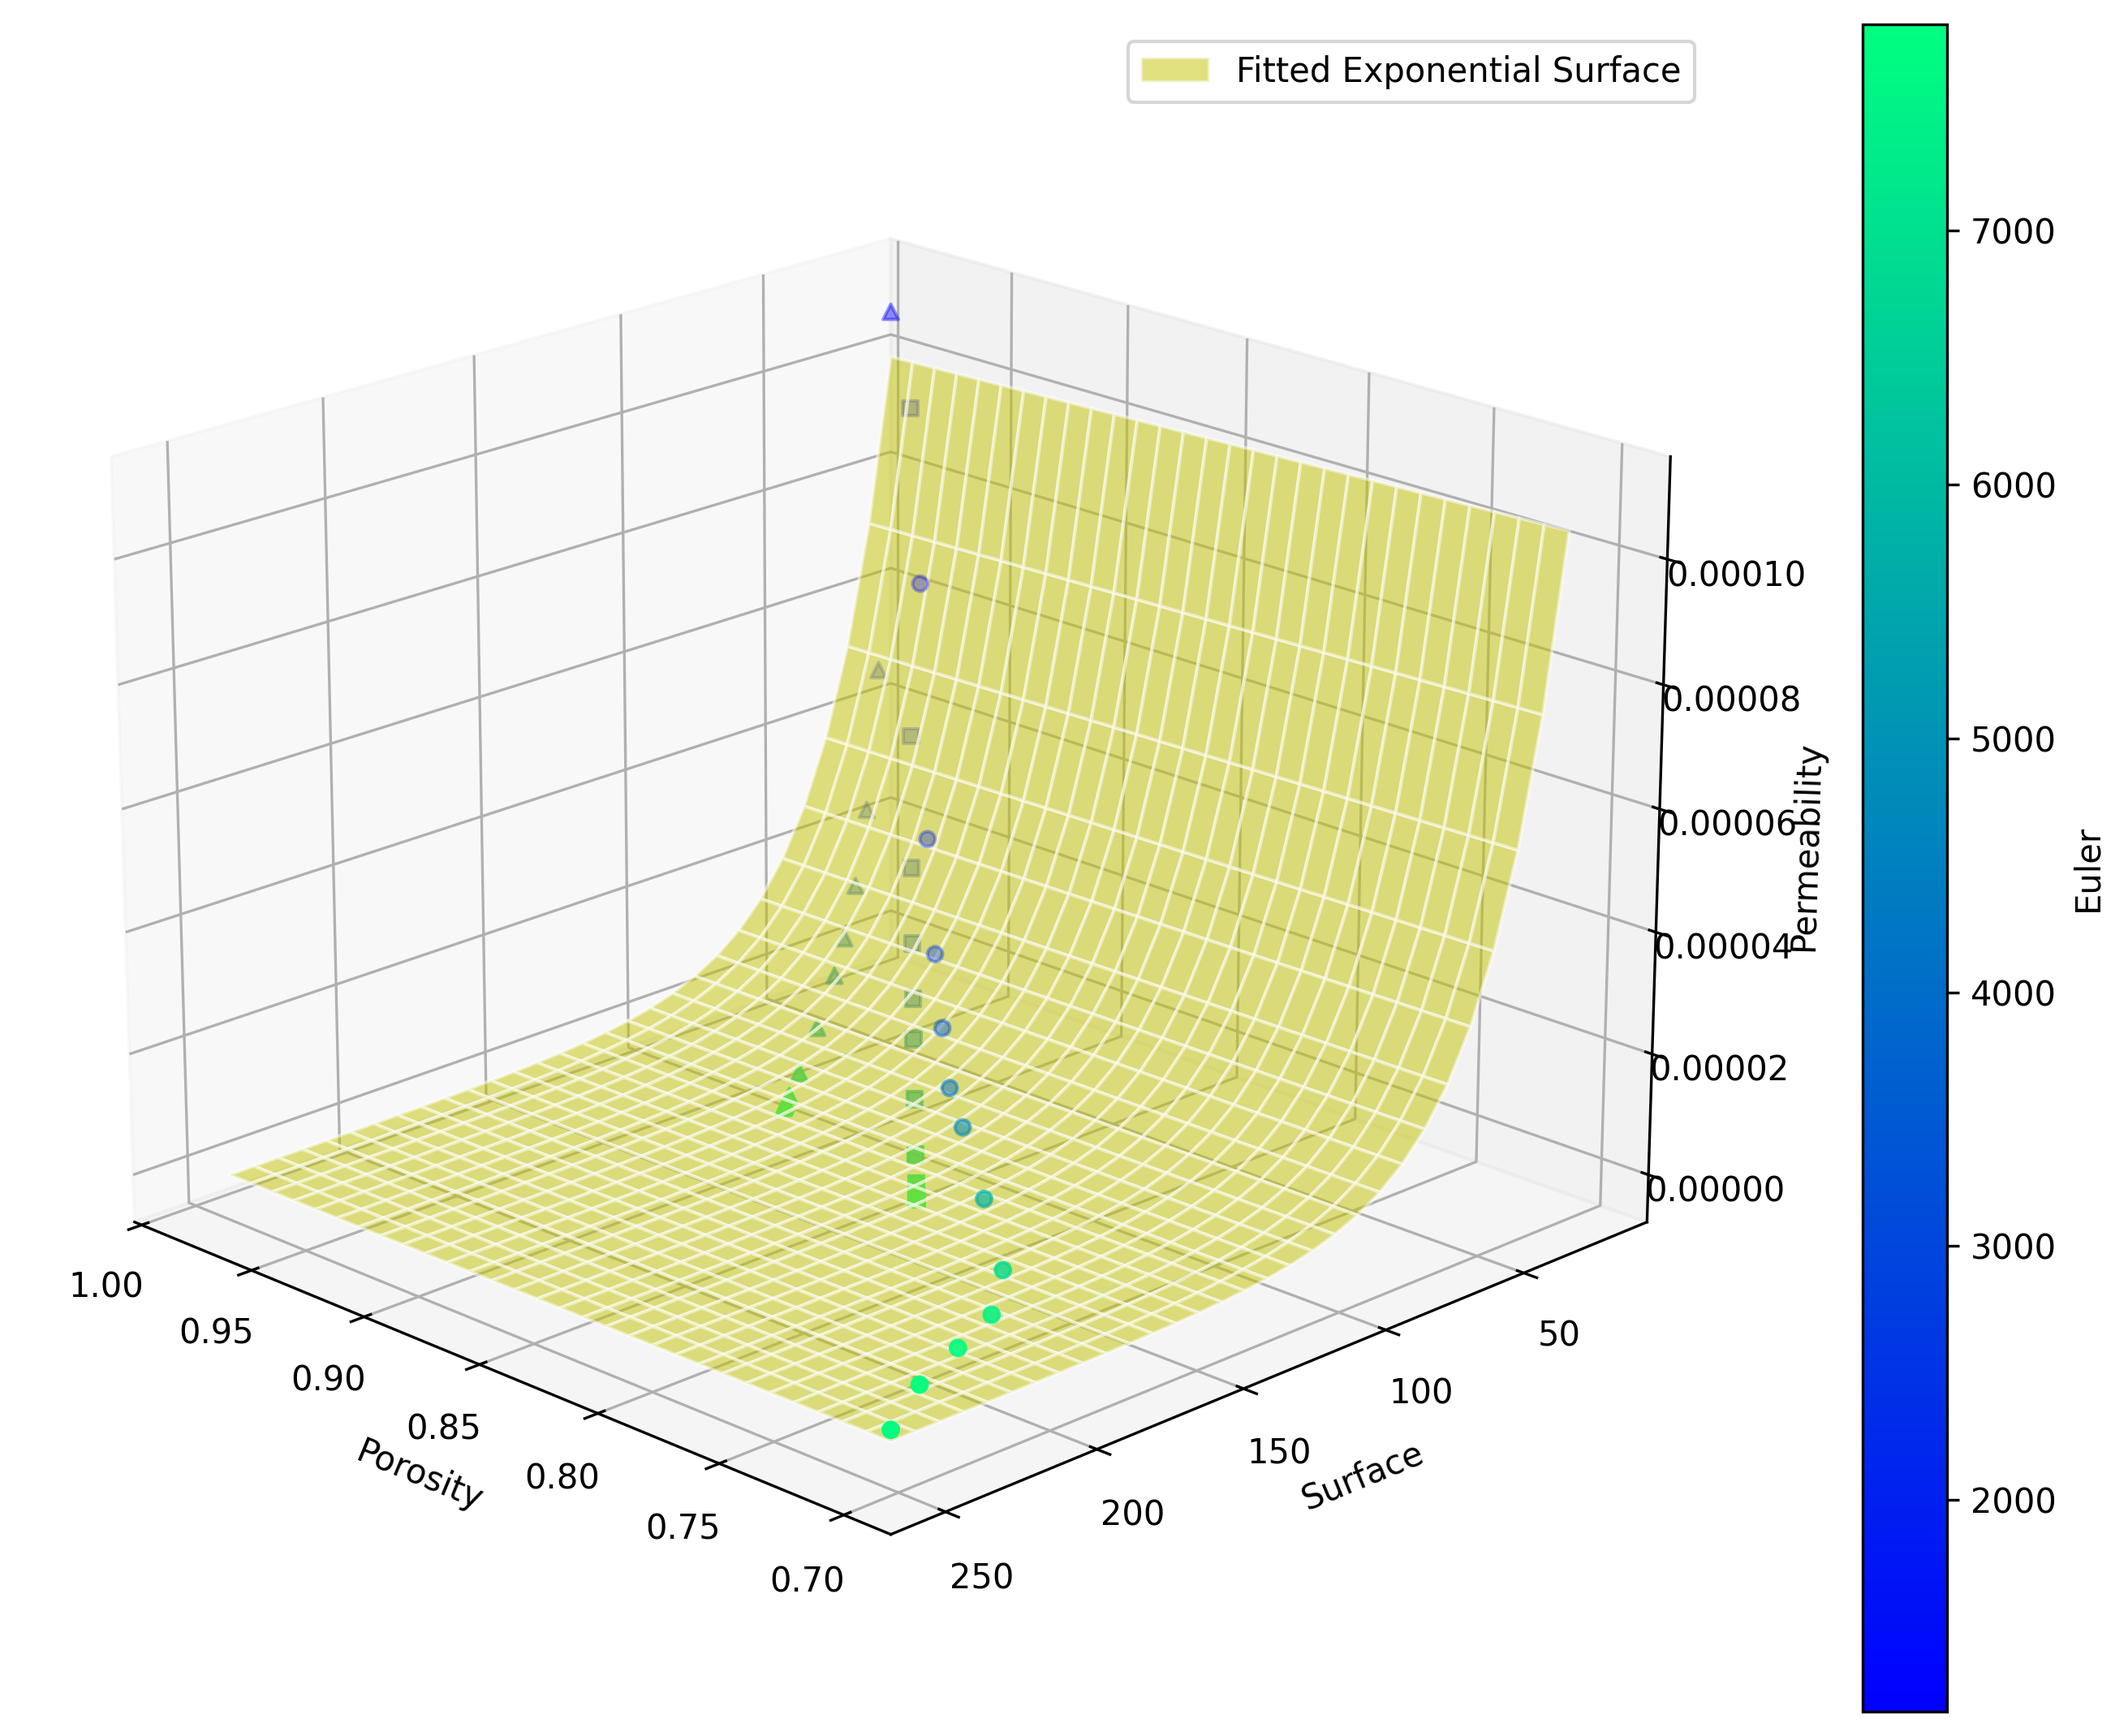
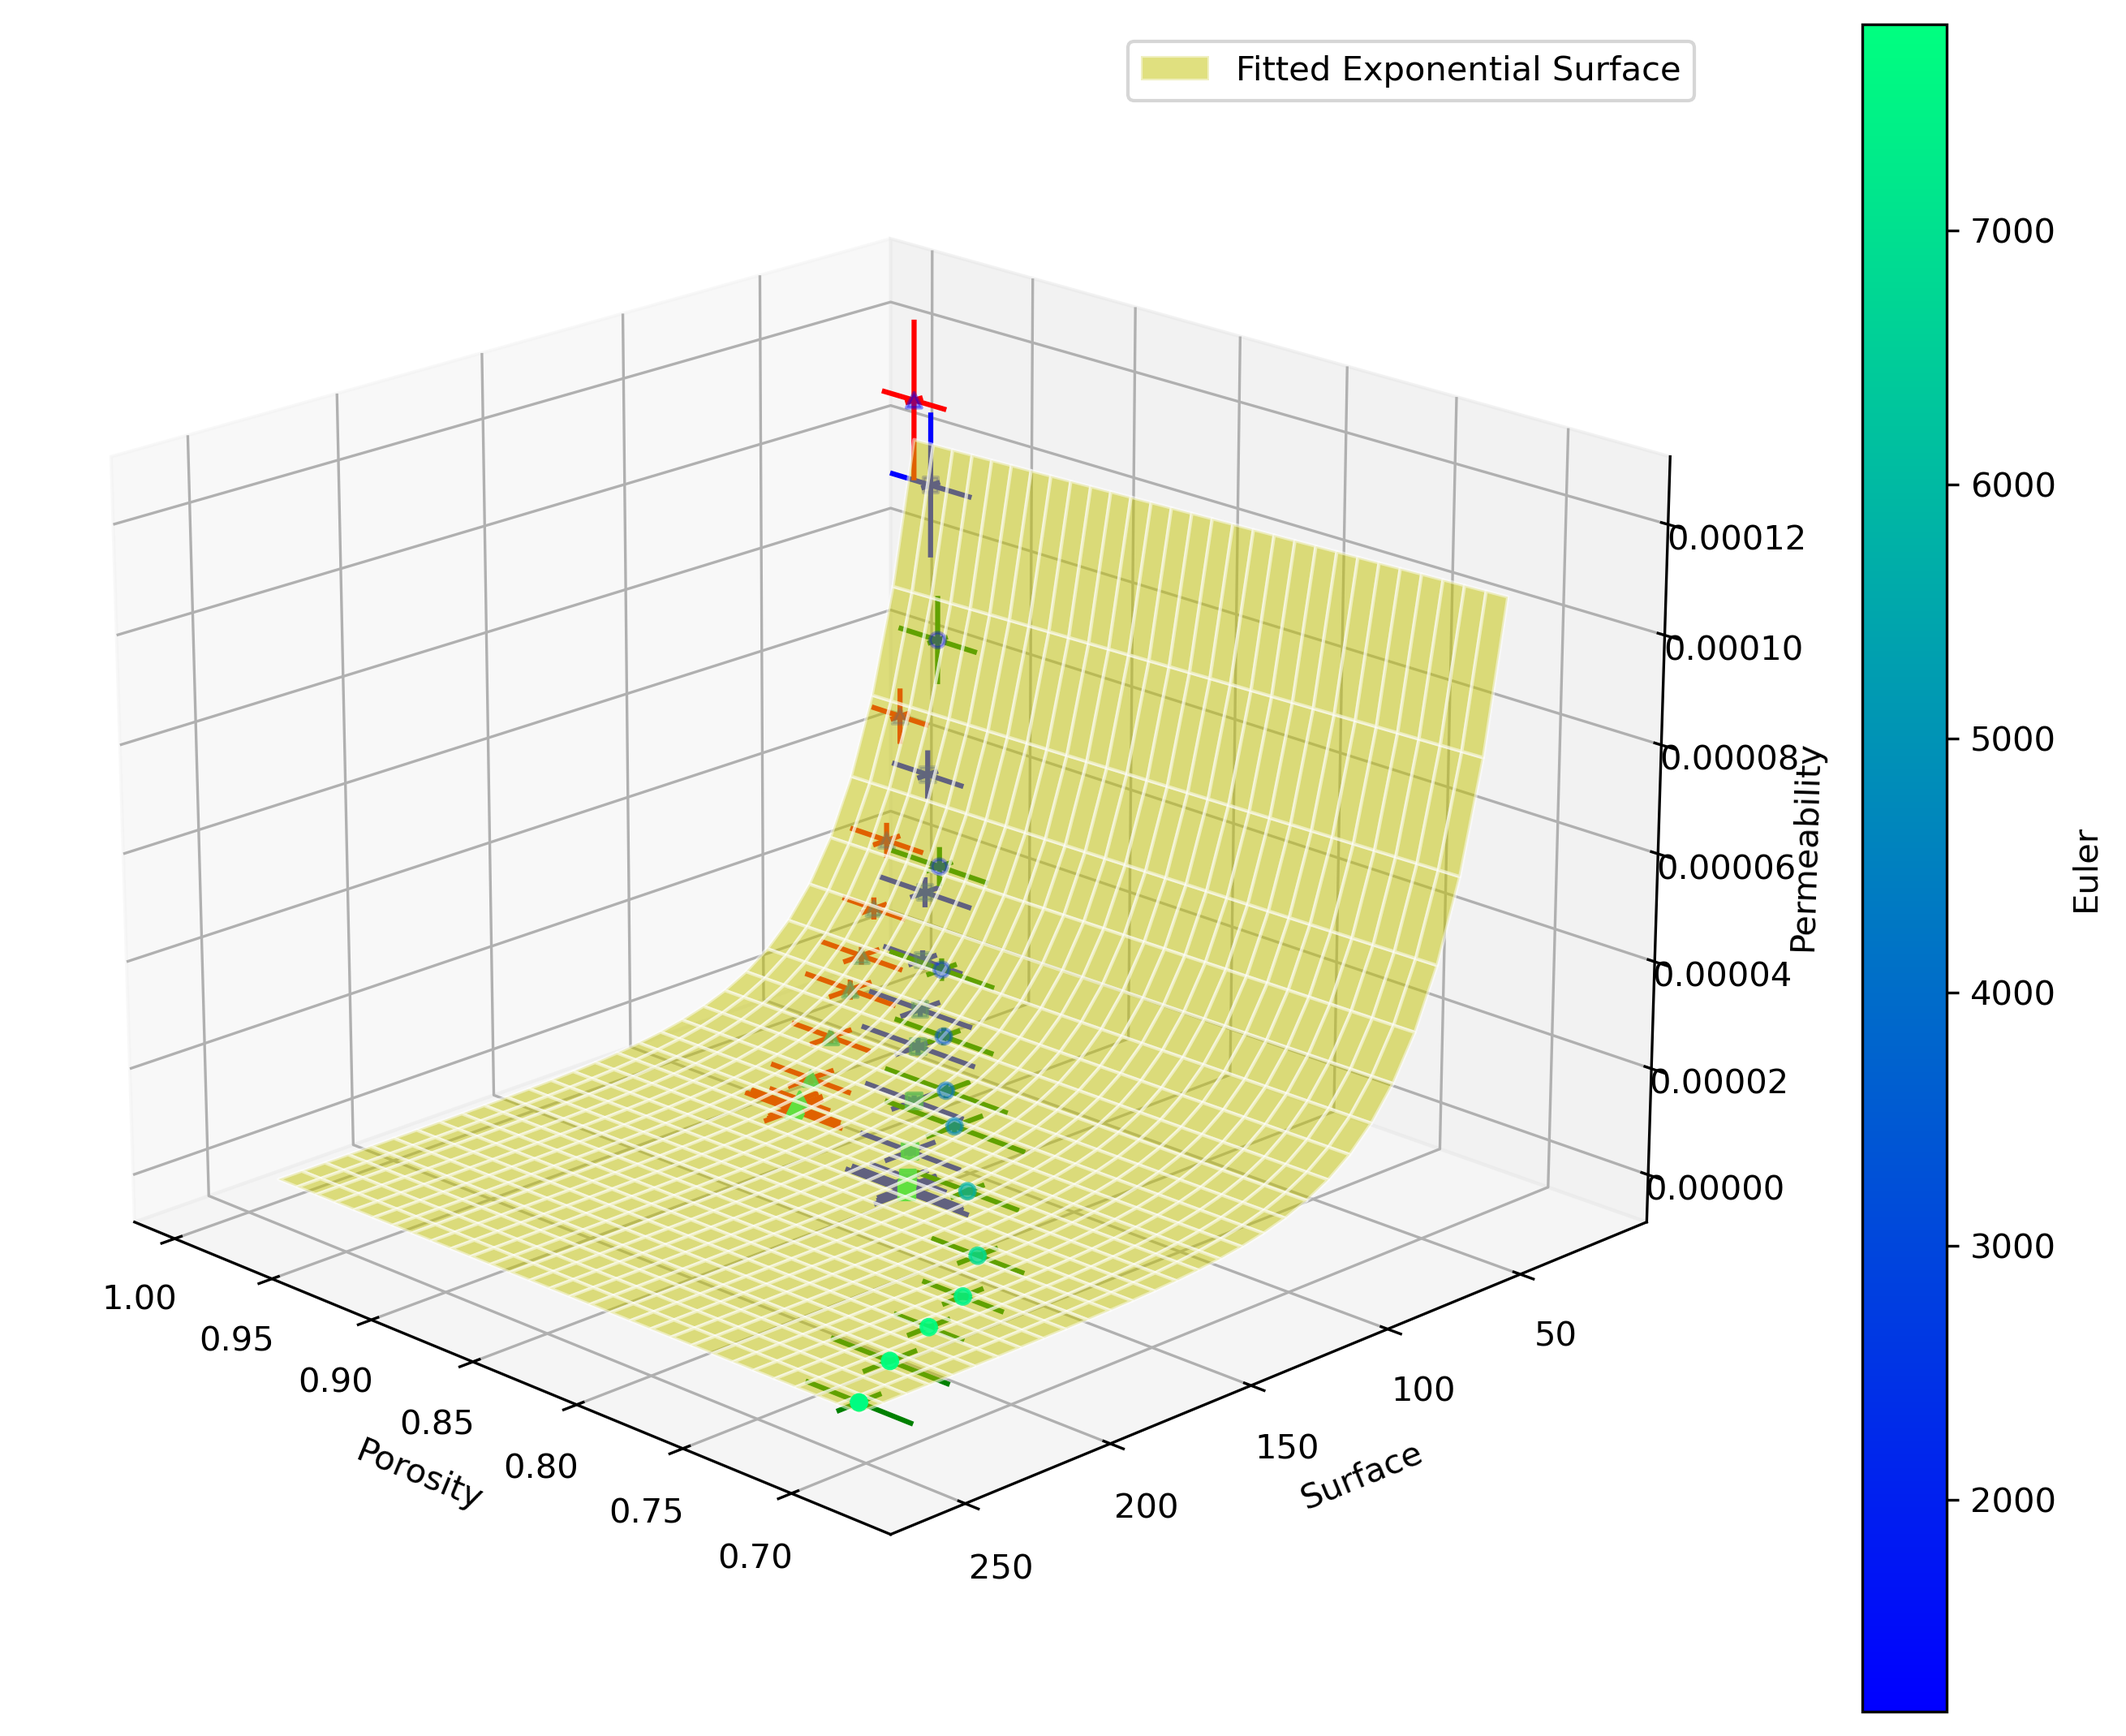
Modified 3d surface and added variance

diff --git a/3d_plots.py b/3d_plots.py
@@ -23,6 +23,7 @@ from sklearn.linear_model import LinearRegression
 from sklearn.metrics import mean_squared_error
 import scipy.optimize as opt
 plt.rcParams["figure.figsize"] = (16, 9)
+VARIANCE=True
 
 # Folder options are: 
 # Threshold_homogenous_diamater_wide_RCP                8000
@@ -31,9 +32,11 @@ plt.rcParams["figure.figsize"] = (16, 9)
 
 ################ READING ALL THE FILES IN THE FOLDER ################
 script_dir = os.path.dirname(__file__)
-sub_path = 'Porespy_homogenous_diamater'
+sub_path = 'Threshold_homogenous_diamater_small_RCP'
 path = os.path.join(script_dir, sub_path)
 print(path)
+variance_path=os.path.join(script_dir, 'Summaries', sub_path)
+print(variance_path)
 # all_files = glob.glob(os.path.join(path, "*0.300*.csv"))
 all_files = glob.glob(os.path.join(path, "*rectangle*.csv"))
 df_from_each_file = (pd.read_csv(f).mean(axis=0).to_frame().T for f in all_files)
@@ -41,6 +44,19 @@ concatenated_df_rectangle = pd.concat(df_from_each_file, ignore_index=True)
 #print(concatenated_df_rectangle['Permeability'])
 # concatenated_df_rectangle['Permeability'] = concatenated_df_rectangle['Permeability'] * 1e5
 # concatenated_df_rectangle['Energy'] = concatenated_df_rectangle['Energy'] * 1e5
+
+#EXTRACT VARIANCE FOR RECTANGLE
+
+variance_files = glob.glob(os.path.join(variance_path, "*rectangle*.csv"))
+df_from_file = (pd.read_csv(f) for f in variance_files)
+variance_df_rectangle = pd.concat(df_from_file, ignore_index=True)
+variance_porosity_rectangle = variance_df_rectangle['Porosity_variance']
+variance_permeability_rectangle = variance_df_rectangle['Permeability_variance']
+variance_surface_rectangle = variance_df_rectangle['Surface_variance']
+mean_porosity_rectangle = variance_df_rectangle['Porosity_mean']
+mean_permeability_rectangle = variance_df_rectangle['Permeability_mean']
+mean_surface_rectangle = variance_df_rectangle['Surface_mean']
+
 
 
 all_files = glob.glob(os.path.join(path, "*triangle*.csv"))
@@ -50,6 +66,18 @@ concatenated_df_triangle = pd.concat(df_from_each_file, ignore_index=True)
 # concatenated_df_triangle['Permeability'] = concatenated_df_triangle['Permeability'] * 1e5
 # concatenated_df_triangle['Energy'] = concatenated_df_triangle['Energy'] * 1e5
 
+#EXTRACT VARIANCE FOR TRIANGLE
+
+variance_files = glob.glob(os.path.join(variance_path, "*triangle*.csv"))
+df_from_file = (pd.read_csv(f) for f in variance_files)
+variance_df_triangle = pd.concat(df_from_file, ignore_index=True)
+variance_porosity_triangle = variance_df_triangle['Porosity_variance']
+variance_permeability_triangle = variance_df_triangle['Permeability_variance']
+variance_surface_triangle = variance_df_triangle['Surface_variance']
+mean_porosity_triangle = variance_df_triangle['Porosity_mean']
+mean_permeability_triangle = variance_df_triangle['Permeability_mean']
+mean_surface_triangle = variance_df_triangle['Surface_mean']
+
 
 all_files = glob.glob(os.path.join(path, "*ellipse*.csv"))
 df_from_each_file = (pd.read_csv(f).mean(axis=0).to_frame().T for f in all_files)
@@ -58,14 +86,57 @@ concatenated_df_ellipse = pd.concat(df_from_each_file, ignore_index=True)
 # concatenated_df_ellipse['Permeability'] = concatenated_df_ellipse['Permeability'] * 1e5
 # concatenated_df_ellipse['Energy'] = concatenated_df_ellipse['Energy'] * 1e5
 
+if (sub_path == 'Heterogenous_samples'):
+        pass
+else:
+    all_files = glob.glob(os.path.join(path, "*ellipse*.csv"))
+    df_from_each_file = (pd.read_csv(f).mean(axis=0).to_frame().T for f in all_files)
+    concatenated_df_ellipse = pd.concat(df_from_each_file, ignore_index=True)
 
+    #EXTRACT VARIANCE FOR ELLIPSE
+
+    variance_files = glob.glob(os.path.join(variance_path, "*ellipse*.csv"))
+    df_from_file = (pd.read_csv(f) for f in variance_files)
+    variance_df_ellipse = pd.concat(df_from_file, ignore_index=True)
+    variance_porosity_ellipse = variance_df_ellipse['Porosity_variance']
+    variance_permeability_ellipse = variance_df_ellipse['Permeability_variance']
+    variance_surface_ellipse = variance_df_ellipse['Surface_variance']
+    mean_porosity_ellipse = variance_df_ellipse['Porosity_mean']
+    mean_permeability_ellipse = variance_df_ellipse['Permeability_mean']
+    mean_surface_ellipse = variance_df_ellipse['Surface_mean']
+
+    sigma_porosity_ellipse = np.sqrt(variance_porosity_ellipse) * mean_porosity_ellipse
+    sigma_permeability_ellipse = np.sqrt(variance_permeability_ellipse) * mean_permeability_ellipse
+    sigma_surface_ellipse = np.sqrt(variance_surface_ellipse) * mean_surface_ellipse
+
+ # Calculate standard deviation (sigma) from variance
+sigma_porosity_rectangle = np.sqrt(variance_porosity_rectangle) * mean_porosity_rectangle
+sigma_permeability_rectangle = np.sqrt(variance_permeability_rectangle) * mean_permeability_rectangle
+sigma_surface_rectangle = np.sqrt(variance_surface_rectangle) * mean_surface_rectangle
+
+sigma_porosity_triangle = np.sqrt(variance_porosity_triangle) * mean_porosity_triangle
+sigma_permeability_triangle = np.sqrt(variance_permeability_triangle) * mean_permeability_triangle
+sigma_surface_triangle = np.sqrt(variance_surface_triangle) * mean_surface_triangle
 
 
 # concated_df = pd.concat([concatenated_df_rectangle, concatenated_df_triangle], ignore_index=True)
 # concated_df = pd.concat([concatenated_df_ellipse], ignore_index=True)
 #print(concated_df)
 
-
+def plot_box_and_whisker(ax, x, y, z, sigma_x, sigma_y, sigma_z, color):
+        #debugging
+        # print(f"Length of x: {len(x)}")
+        # print(f"Length of y: {len(y)}")
+        # print(f"Length of z: {len(z)}")
+        # print(f"Length of sigma_x: {len(sigma_x)}")
+        # print(f"Length of sigma_y: {len(sigma_y)}")
+        # print(f"Length of sigma_z: {len(sigma_z)}")
+        
+        if VARIANCE:
+            for i in range(len(x)):
+                ax.plot([x[i] - sigma_x[i], x[i] + sigma_x[i]], [y[i], y[i]], [z[i], z[i]], color=color)
+                ax.plot([x[i], x[i]], [y[i] - sigma_y[i], y[i] + sigma_y[i]], [z[i], z[i]], color=color)
+                ax.plot([x[i], x[i]], [y[i], y[i]], [z[i] - sigma_z[i], z[i] + sigma_z[i]], color=color)
 
 ################ CALCULATE THE AVERAGE OF EVERY PF ################
 average_samples = []
@@ -312,6 +383,8 @@ def cubic_surface(XY, a, b, c, d, e):
     x, y = XY
     return a + b*x + c*y + d*x**2 + e*y**2
 
+
+
 # Prepare data for fitting
 XY = np.vstack((concated_df['Porosity'], concated_df['Surface']))
 X = concated_df['Porosity']
@@ -325,9 +398,19 @@ a, b, c = popt_exp
 # a, b, c, d, e = popt_poly
 print(popt_exp)
 
+# Calculate RMSE between the surface generated and the points plotted
+def calculate_rmse(actual, predicted):
+    return np.sqrt(mean_squared_error(actual, predicted))
+
+# Flatten the meshgrid and calculate predicted values
+predicted_values = exponential_surface((X, Y), a, b, c)
+rmse = calculate_rmse(Z, predicted_values)
+
+print(f"RMSE between the surface generated and the points plotted: {rmse}")
+
 # Create a meshgrid for the fitted surface
-x_grid = np.linspace(X.min(), X.max(), 30)
-y_grid = np.linspace(Y.min(), Y.max(), 30)
+x_grid = np.linspace(X.min(), X.max(), 100)
+y_grid = np.linspace(Y.min(), Y.max(), 100)
 x_mesh, y_mesh = np.meshgrid(x_grid, y_grid)
 z_mesh_exp = exponential_surface((x_mesh, y_mesh), a, b, c)
 # z_mesh_poly = cubic_surface((x_mesh, y_mesh), a, b, c, e, f)
@@ -344,6 +427,13 @@ sc2 = ax.scatter(xdata_triangle[0], xdata_triangle[1], ydata_triangle, c=xdata_t
 sc3 = ax.scatter(xdata_ellipse[0], xdata_ellipse[1], ydata_ellipse, c=xdata_ellipse[2], marker='o', cmap='winter', vmin=min_color, vmax=max_color)
 cbar = plt.colorbar(sc1, ax=ax, label='Euler')
 ax.plot_surface(x_mesh, y_mesh, z_mesh_exp, color='yellow', alpha=0.5, edgecolor='w', label='Fitted Exponential Surface')
+if VARIANCE:
+        plot_box_and_whisker(ax, concatenated_df_rectangle['Porosity'], concatenated_df_rectangle['Surface'], concatenated_df_rectangle['Permeability'], sigma_porosity_rectangle, sigma_surface_rectangle, sigma_permeability_rectangle, 'blue')
+        plot_box_and_whisker(ax, concatenated_df_triangle['Porosity'], concatenated_df_triangle['Surface'], concatenated_df_triangle['Permeability'], sigma_porosity_triangle, sigma_surface_triangle, sigma_permeability_triangle, 'red')
+        if (sub_path == 'Heterogenous_samples'):
+            pass
+        else:
+            plot_box_and_whisker(ax, concatenated_df_ellipse['Porosity'], concatenated_df_ellipse['Surface'], concatenated_df_ellipse['Permeability'], sigma_porosity_ellipse, sigma_surface_ellipse, sigma_permeability_ellipse, 'green')
 
 # Color bar and labels
 ax.set_xlabel('Porosity')
@@ -351,15 +441,9 @@ ax.set_ylabel('Surface')
 ax.set_zlabel('Permeability')
 ax.view_init(elev=20, azim=135)
 plt.legend()
+
+# Add RMSE text to the plot
+ax.text2D(0.05, 0.95, f"RMSE: {10**5*rmse:.10f}e-5", transform=ax.transAxes)
+
 plt.savefig(os.path.join(path, 'kozeny_surface.png'), dpi=300, bbox_inches='tight', pad_inches=0.1)
 plt.show()
-
-# Calculate RMSE between the surface generated and the points plotted
-def calculate_rmse(actual, predicted):
-    return np.sqrt(mean_squared_error(actual, predicted))
-
-# Flatten the meshgrid and calculate predicted values
-predicted_values = exponential_surface((X, Y), a, b, c)
-rmse = calculate_rmse(Z, predicted_values)
-
-print(f"RMSE between the surface generated and the points plotted: {rmse}")
